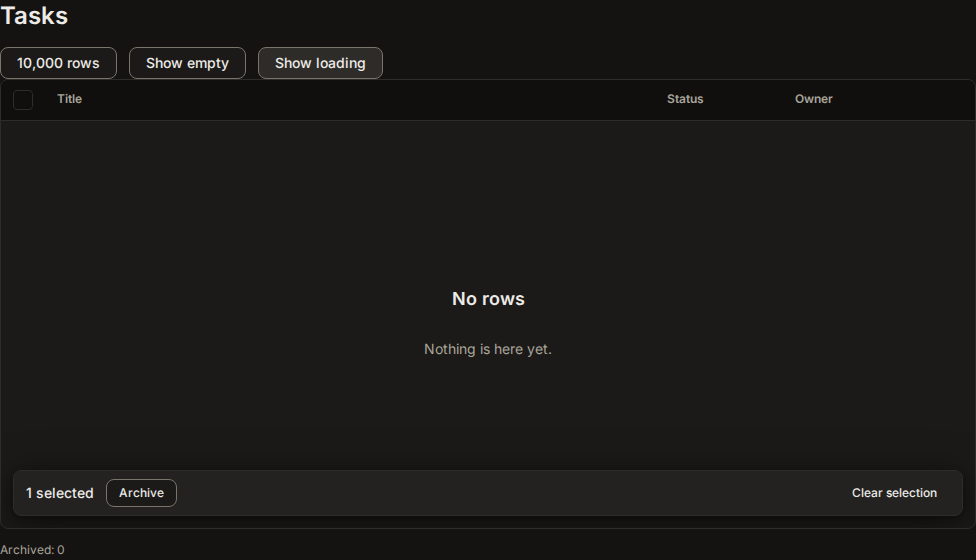
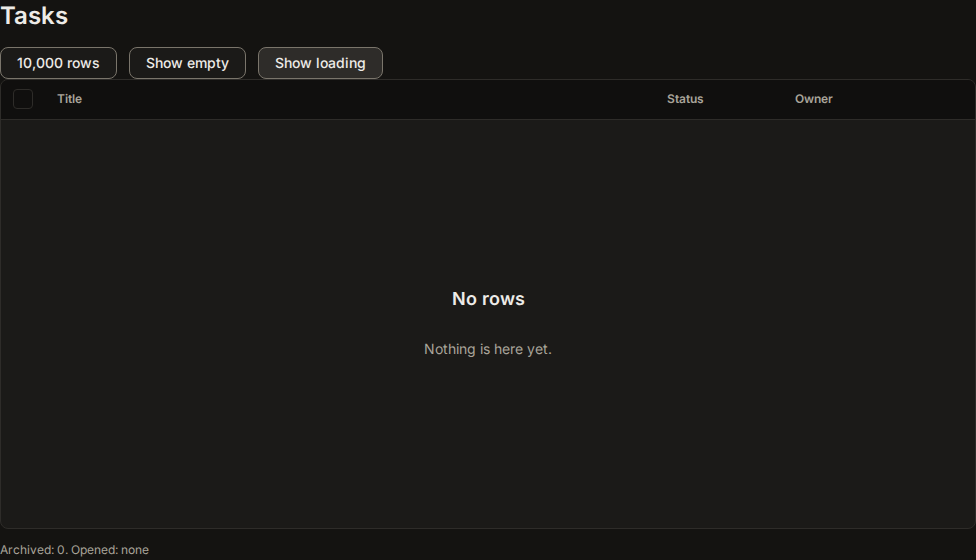
Fix DataTable review findings
Count only selected ids that are still in the rows, so a filter or an
empty list cannot leave a bar that acts on missing rows. Give focus
back to the active row when the bar closes. Make the head and the rows
share one width, so a narrow screen scrolls sideways with aligned
columns. Keep the focused row clear of the bar. Let text fields, selects
and editable cells keep their keys. Add contrast pairs for text and
control borders on a selected row. Add tests for each case.

Changed region(s): [[0.0307, 0.85, 0.1844, 0.9107], [0.8607, 0.85, 0.9529, 0.9107], [0.0615, 0.9714, 0.1537, 1.0]]

diff --git a/src/components/data-table.tsx b/src/components/data-table.tsx
@@ -1,4 +1,4 @@
-import { useCallback, useEffect, useId, useLayoutEffect, useMemo, useRef, useState, type CSSProperties, type KeyboardEvent, type ReactNode } from "react";
+import { useCallback, useEffect, useLayoutEffect, useMemo, useRef, useState, type CSSProperties, type KeyboardEvent, type ReactNode } from "react";
 import { cx } from "../cx.js";
 import { Button } from "./button.js";
 import { EmptyState } from "./files.js";
@@ -10,7 +10,7 @@ export interface DataTableColumn<T> {
   /** The column name. Always text, so a screen reader can read it. */
   header: string;
   cell: (row: T) => ReactNode;
-  /** A CSS grid track, for example `12rem`. The default shares the rest of the width. */
+  /** A CSS length, for example `12rem`. The default shares the rest of the width, and is never under 8rem. */
   width?: string;
 }
 
@@ -44,12 +44,14 @@ export interface DataTableProps<T> {
 }
 
 const CHECK_WIDTH = "2.75rem";
+const FLEX_MIN = "8rem";
+const BAR_GAP = 12;
 const PLACEHOLDERS = 8;
 const noRows: readonly never[] = [];
 
 /**
  * A table for many rows. Only the rows in view are in the page, so 10,000 rows scroll smoothly.
- * It is a grid: one tab stop, then arrow keys, Home, End, and Page Up and Down move between rows.
+ * It is a grid. The rows are one tab stop, and arrow keys, Home, End, and Page Up and Down move between them.
  * Space selects a row, Shift with a click or Space selects a range, Enter opens a row, and Escape clears the selection.
  */
 export function DataTable<T>({
@@ -58,7 +60,7 @@ export function DataTable<T>({
 }: DataTableProps<T>) {
   if (label.trim() === "") throw new Error("A data table needs a non-empty label.");
   const [own, setOwn] = useState<ReadonlySet<string>>(defaultSelected ?? new Set());
-  const selected = selectedProp ?? own;
+  const stored = selectedProp ?? own;
   const setSelected = useCallback((next: ReadonlySet<string>) => {
     setOwn(next);
     onSelectedChange?.(next);
@@ -79,12 +81,36 @@ export function DataTable<T>({
     return () => observer.disconnect();
   }, []);
 
+  // Callers often pass an inline getRowId. Keep it in a ref, so a scroll does not read every row again.
+  const idOf = useRef(getRowId);
+  idOf.current = getRowId;
+  const ids = useMemo(() => items.map((row) => idOf.current(row)), [items]);
+  // A selection can outlive its rows, for example after a filter. Only rows that are here count.
+  const selected = useMemo(() => {
+    const live = new Set<string>();
+    for (const id of ids) if (stored.has(id)) live.add(id);
+    return live as ReadonlySet<string>;
+  }, [ids, stored]);
+  const allSelected = count > 0 && selected.size === count;
+  const someSelected = selected.size > 0 && !allSelected;
   const [activeRaw, setActive] = useState(0);
   const active = Math.min(activeRaw, Math.max(0, count - 1));
   const wantFocus = useRef(false);
   const anchor = useRef(0);
   const barVisible = selectable && selected.size > 0 && !loading;
-  const barHeight = barVisible ? 64 : 0;
+  const [barSize, setBarSize] = useState(0);
+  const barHeight = barVisible ? barSize + BAR_GAP : 0;
+  const bar = useRef<HTMLDivElement>(null);
+  // The bar grows when its buttons wrap, so watch its size.
+  useLayoutEffect(() => {
+    const el = bar.current;
+    if (!el) return;
+    const measure = () => setBarSize(el.offsetHeight);
+    measure();
+    const observer = new ResizeObserver(measure);
+    observer.observe(el);
+    return () => observer.disconnect();
+  }, [barVisible]);
 
   const range = windowRange(scrollTop, viewport, rowHeight, count);
   // The row that has focus stays drawn when it scrolls out of view, so focus is not lost.
@@ -102,9 +128,19 @@ export function DataTable<T>({
     el.querySelector<HTMLElement>(`[data-index="${active}"]`)?.focus({ preventScroll: true });
   });
 
-  const ids = useMemo(() => items.map(getRowId), [items, getRowId]);
-  const allSelected = count > 0 && ids.every((id) => selected.has(id));
-  const someSelected = !allSelected && ids.some((id) => selected.has(id));
+  // The bar covers the last rows while it shows. Keep the active row clear of it, and give focus back to the grid when the bar and its focused button go.
+  const barWas = useRef(false);
+  useLayoutEffect(() => {
+    const el = scroller.current;
+    if (barVisible && el) {
+      const next = scrollToRow(active, el.scrollTop, el.clientHeight, rowHeight, rowHeight, barHeight);
+      if (next !== el.scrollTop) el.scrollTop = next;
+    }
+    if (barWas.current && !barVisible && count > 0 && (!document.activeElement || document.activeElement === document.body)) {
+      el?.querySelector<HTMLElement>(`[data-index="${active}"]`)?.focus({ preventScroll: true });
+    }
+    barWas.current = barVisible;
+  }, [barVisible, barHeight]); // eslint-disable-line react-hooks/exhaustive-deps
   const headerCheck = useRef<HTMLInputElement>(null);
   useEffect(() => {
     if (headerCheck.current) headerCheck.current.indeterminate = someSelected;
@@ -132,6 +168,8 @@ export function DataTable<T>({
     const target = event.target as HTMLElement;
     const row = target.closest<HTMLElement>('[role="row"][data-index]');
     if (!row || count === 0) return;
+    // A text field, select, or editable cell keeps its own keys.
+    if (target.isContentEditable || target instanceof HTMLTextAreaElement || target instanceof HTMLSelectElement) return;
     if (target instanceof HTMLInputElement && target.type !== "checkbox") return;
     const index = Number(row.dataset.index);
     const page = Math.max(1, Math.floor((viewport - rowHeight) / rowHeight) - 1);
@@ -160,9 +198,10 @@ export function DataTable<T>({
     event.preventDefault();
   };
 
-  const cols = [selectable ? CHECK_WIDTH : null, ...columns.map((c) => c.width ?? "minmax(0, 1fr)")].filter(Boolean).join(" ");
-  const style = { "--agd-dt-cols": cols, "--agd-dt-row": `${rowHeight}px`, "--agd-dt-height": typeof height === "number" ? `${height}px` : height } as CSSProperties;
-  const headerId = useId();
+  const tracks = [selectable ? CHECK_WIDTH : null, ...columns.map((c) => c.width ?? `minmax(${FLEX_MIN}, 1fr)`)].filter(Boolean).join(" ");
+  // The head and every row share one width. It is the sum of the minimums, so a narrow screen scrolls sideways.
+  const minWidth = `calc(${[selectable ? CHECK_WIDTH : null, ...columns.map((c) => c.width ?? FLEX_MIN)].filter(Boolean).join(" + ")})`;
+  const style = { "--agd-dt-cols": tracks, "--agd-dt-min": minWidth, "--agd-dt-row": `${rowHeight}px`, "--agd-dt-height": typeof height === "number" ? `${height}px` : height } as CSSProperties;
   const nameOf = (row: T) => rowLabel?.(row) ?? getRowId(row);
   const status = loading ? "Loading rows" : selectable && selected.size > 0 ? `${selected.size} of ${count} selected` : "";
 
@@ -183,6 +222,7 @@ export function DataTable<T>({
           onScroll={(event) => setScrollTop(event.currentTarget.scrollTop)}
           onKeyDown={onKeyDown}
         >
+          <div role="presentation" className="agd-datatable__inner">
           <div role="rowgroup" className="agd-datatable__head">
             <div role="row" className="agd-datatable__row" aria-rowindex={1}>
               {selectable && (
@@ -198,7 +238,7 @@ export function DataTable<T>({
                   />
                 </div>
               )}
-              {columns.map((c) => <div key={c.id} role="columnheader" id={`${headerId}-${c.id}`} className="agd-datatable__cell">{c.header}</div>)}
+              {columns.map((c) => <div key={c.id} role="columnheader" className="agd-datatable__cell">{c.header}</div>)}
             </div>
           </div>
           <div role="rowgroup" className="agd-datatable__body" style={{ height: (loading ? PLACEHOLDERS : count) * rowHeight + barHeight }}>
@@ -245,10 +285,11 @@ export function DataTable<T>({
                   );
                 })}
           </div>
+          </div>
         </div>
         {!loading && count === 0 && <div className="agd-datatable__state">{empty ?? <EmptyState title="No rows" description="Nothing is here yet." />}</div>}
         {barVisible && (
-          <div role="region" aria-label="Bulk actions" className="agd-datatable__bar">
+          <div ref={bar} role="region" aria-label="Bulk actions" className="agd-datatable__bar">
             <span className="agd-datatable__bar-count" aria-hidden="true">{selected.size} selected</span>
             <div className="agd-datatable__bar-actions">{bulkActions?.(selected)}</div>
             <Button size="sm" variant="ghost" onClick={() => setSelected(new Set())}>Clear selection</Button>

diff --git a/e2e/data.ui.spec.ts b/e2e/data.ui.spec.ts
@@ -72,7 +72,65 @@ test("select all and a bulk action", async ({ page }) => {
   await expect(bar).toContainText("10000 selected");
   await bar.getByRole("button", { name: "Archive" }).click();
   await expect(page.locator("#archived")).toHaveText("10000");
-  await page.getByRole("checkbox", { name: "Select Task 3", exact: true }).click({ modifiers: ["Shift"] });
   await bar.getByRole("button", { name: "Clear selection" }).click();
   await expect(bar).toHaveCount(0);
+});
+
+test("Shift selects a range from the last row picked", async ({ page }) => {
+  await page.goto("/data");
+  await page.getByRole("checkbox", { name: "Select Task 2", exact: true }).click();
+  await page.getByRole("checkbox", { name: "Select Task 5", exact: true }).click({ modifiers: ["Shift"] });
+  await expect(page.getByRole("region", { name: "Bulk actions" })).toContainText("4 selected");
+  await expect(page.getByRole("row", { name: /Task 4\b/ })).toHaveAttribute("aria-selected", "true");
+  await expect(page.getByRole("row", { name: /Task 6\b/ })).toHaveAttribute("aria-selected", "false");
+});
+
+test("Page Down moves by a page and Enter opens the row", async ({ page }) => {
+  await page.goto("/data");
+  await page.locator('[data-index="0"]').focus();
+  await page.keyboard.press("PageDown");
+  const index = Number(await page.evaluate(() => document.activeElement?.getAttribute("data-index")));
+  expect(index).toBeGreaterThan(4);
+  await page.keyboard.press("Enter");
+  await expect(page.locator("#opened")).toHaveText(`Task ${index + 1}`);
+  await page.keyboard.press("PageUp");
+  await expect(page.locator('[data-index="0"]')).toBeFocused();
+});
+
+test("a selection of rows that are gone does not show a bar", async ({ page }) => {
+  await page.goto("/data");
+  await page.getByRole("checkbox", { name: "Select Task 1", exact: true }).click();
+  await page.getByRole("button", { name: "Show empty" }).click();
+  await expect(page.getByRole("heading", { name: "No rows" })).toBeVisible();
+  await expect(page.getByRole("region", { name: "Bulk actions" })).toHaveCount(0);
+});
+
+test("clearing the selection from the bar keeps focus in the table", async ({ page }) => {
+  await page.goto("/data");
+  await page.locator('[data-index="0"]').focus();
+  await page.keyboard.press("Space");
+  await page.keyboard.press("Tab");
+  await page.keyboard.press("Tab");
+  await expect(page.getByRole("button", { name: "Clear selection" })).toBeFocused();
+  await page.keyboard.press("Enter");
+  await expect(page.locator('[data-index="0"]')).toBeFocused();
+});
+
+test("the bar does not cover the row that has focus", async ({ page }) => {
+  await page.goto("/data");
+  await page.locator('[data-index="0"]').focus();
+  for (let i = 0; i < 8; i++) await page.keyboard.press("ArrowDown");
+  await page.keyboard.press("Space");
+  const row = await page.locator('[data-index="8"]').boundingBox();
+  const bar = await page.getByRole("region", { name: "Bulk actions" }).boundingBox();
+  expect((row?.y ?? 0) + (row?.height ?? 0)).toBeLessThanOrEqual(bar?.y ?? 0);
+});
+
+test("on a narrow screen the headers line up with the cells", async ({ page }) => {
+  await page.setViewportSize({ width: 320, height: 640 });
+  await page.goto("/data");
+  const grid = page.getByRole("grid", { name: "Tasks" });
+  const header = await grid.getByRole("columnheader", { name: "Owner" }).boundingBox();
+  const cell = await grid.getByRole("row", { name: /Task 1\b/ }).getByRole("gridcell").last().boundingBox();
+  expect(Math.abs((header?.x ?? 0) - (cell?.x ?? 99))).toBeLessThan(1);
 });

diff --git a/src/styles/components.css b/src/styles/components.css
@@ -709,9 +709,11 @@
 .agd-datatable { display: grid; gap: var(--agd-space-3); min-width: 0; }
 .agd-datatable__frame { position: relative; border: 1px solid var(--agd-color-border); border-radius: var(--agd-radius-md); background: var(--agd-color-surface); overflow: hidden; }
 .agd-datatable__scroller { height: var(--agd-dt-height); overflow: auto; overscroll-behavior: contain; }
-.agd-datatable__head { position: sticky; top: 0; z-index: 1; min-width: max-content; background: var(--agd-color-surface-sunken); border-bottom: 1px solid var(--agd-color-border); }
-.agd-datatable__row { display: grid; grid-template-columns: var(--agd-dt-cols); align-items: center; height: var(--agd-dt-row); }
-.agd-datatable__body { position: relative; min-width: max-content; }
+.agd-datatable__inner { min-width: var(--agd-dt-min); }
+.agd-datatable__head { position: sticky; top: 0; z-index: 1; background: var(--agd-color-surface-sunken); }
+.agd-datatable__head .agd-datatable__row { border-bottom: 1px solid var(--agd-color-border); }
+.agd-datatable__row { box-sizing: border-box; display: grid; grid-template-columns: var(--agd-dt-cols); align-items: center; height: var(--agd-dt-row); }
+.agd-datatable__body { position: relative; }
 .agd-datatable__row--body { position: absolute; inset-inline: 0; border-bottom: 1px solid var(--agd-color-border); }
 .agd-datatable__row--body:hover { background: var(--agd-color-surface-sunken); }
 .agd-datatable__row--body.is-selected { background: var(--agd-color-accent-subtle); }
@@ -730,5 +732,5 @@
 .agd-datatable__bar-count { font-size: var(--agd-font-size-sm); font-weight: var(--agd-font-weight-medium); }
 .agd-datatable__bar-actions { display: flex; flex: 1; flex-wrap: wrap; gap: var(--agd-space-2); }
 @media (forced-colors: active) {
-  .agd-datatable__row--body.is-selected { outline: 2px solid Highlight; outline-offset: -2px; }
+  .agd-datatable__row--body.is-selected { border-inline-start: 0.25rem solid Highlight; }
 }

diff --git a/src/tokens/tokens.ts b/src/tokens/tokens.ts
@@ -127,7 +127,7 @@ const status = (name: "danger" | "warning" | "success"): ContrastPair[] => [
 
 // Every pair the components use. Disabled controls are exempt by WCAG 1.4.3.
 export const contrastPairs: readonly ContrastPair[] = deepFreeze([
-  ...text("text", surfaces, "body text"),
+  ...text("text", [...surfaces, "accent-subtle"], "body text, and text on a selected row"),
   ...text("text-muted", surfaces, "secondary text and placeholders"),
   ...text("text-on-accent", ["accent", "accent-hover"], "text on a filled accent control"),
   ...text("accent-text", ["accent-subtle", ...surfaces], "accent text and links"),
@@ -135,7 +135,7 @@ export const contrastPairs: readonly ContrastPair[] = deepFreeze([
   ...status("danger"),
   ...status("warning"),
   ...status("success"),
-  ...ui("border-strong", surfaces, "control borders (WCAG 1.4.11)"),
+  ...ui("border-strong", [...surfaces, "accent-subtle"], "control borders (WCAG 1.4.11)"),
   ...ui("focus", [...surfaces, "accent-subtle", "agent-subtle", "danger-subtle", "warning-subtle", "success-subtle"], "focus ring (WCAG 1.4.11)"),
   ...ui("accent", ["accent-subtle", ...surfaces], "accent marks and checked controls"),
   ...ui("agent", ["agent-subtle", ...surfaces], "agent avatar outline"),

diff --git a/src/demo/data-page.tsx b/src/demo/data-page.tsx
@@ -23,6 +23,7 @@ export function DataPage() {
   const [state, setState] = useState<"ready" | "loading">("ready");
   const rows = useMemo(() => makeTasks(size), [size]);
   const [removed, setRemoved] = useState(0);
+  const [opened, setOpened] = useState("none");
   return (
     <DemoShell title="Data table" description="Virtualized rows, keyboard navigation, bulk select, and loading and empty states.">
       <section aria-labelledby="demo-data-h" id="demo-data">
@@ -39,10 +40,11 @@ export function DataPage() {
           getRowId={(t) => t.id}
           rowLabel={(t) => t.title}
           loading={state === "loading"}
+          onRowActivate={(t) => setOpened(t.title)}
           selectable
           bulkActions={(ids) => <Button size="sm" onClick={() => setRemoved(ids.size)}>Archive</Button>}
         />
-        <p className="demo-muted demo-note">Archived: <span id="archived">{removed}</span></p>
+        <p className="demo-muted demo-note">Archived: <span id="archived">{removed}</span>. Opened: <span id="opened">{opened}</span></p>
       </section>
     </DemoShell>
   );
